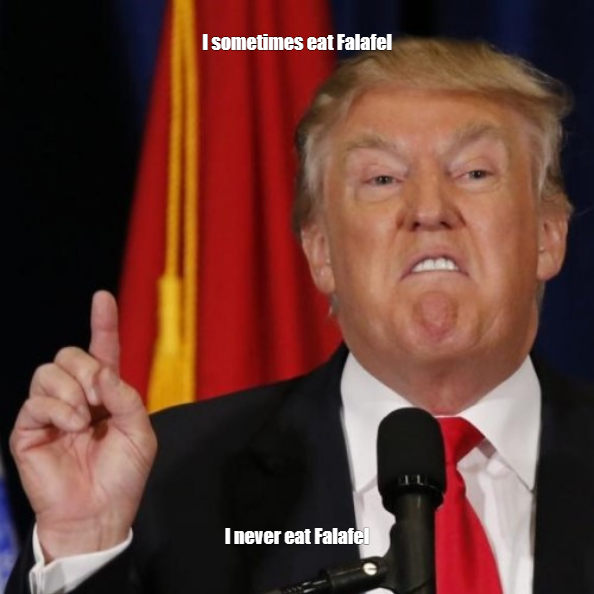
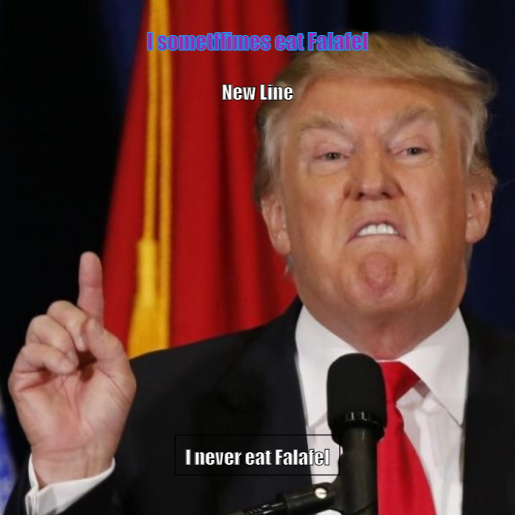
box around selected added

Changed region(s): [[0.2796, 0.0311, 0.7146, 0.1243], [0.3417, 0.8388, 0.6524, 0.932], [0.435, 0.1553, 0.5903, 0.2175]]

diff --git a/js/controllers/memesController.js b/js/controllers/memesController.js
@@ -46,48 +46,72 @@ const memeController = {
         this.renderMem()
     },
 
-
+    consoleLog: function () {
+        console.log('this.currMeme:', this.currMeme)
+    },
 
     renderMem: function () {
         const img = this.loadImg(this.currMeme.selectedImgId)  // Load the image
-
+         this.consoleLog()
         // When the image ready draw it on the canvas
         img.onload = () => {
             const imgWidth = img.naturalWidth
             const imgHeight = img.naturalHeight
-            console.log(`Image size is ${imgWidth}W x ${imgHeight}H`)
+            // console.log(`Image size is ${imgWidth}W x ${imgHeight}H`)
             const imgRatio = imgHeight / imgWidth
             const canvasContainerRatio = canvasService.getCanvasContainerSize().height / canvasService.getCanvasContainerSize().width
             const sideSize = canvasContainerRatio < 1 ? canvasService.getCanvasContainerSize().height : canvasService.getCanvasContainerSize().width
             this.elCanvas.width = sideSize
             this.elCanvas.height = sideSize * imgRatio
     
-            console.log(`Canvas size set to ${this.elCanvas.width}W x ${this.elCanvas.height}H`)
+            // console.log(`Canvas size set to ${this.elCanvas.width}W x ${this.elCanvas.height}H`)
 
             this.ctx.drawImage(img, 0, 0, this.elCanvas.width, this.elCanvas.height)
             this.currMeme.lines.forEach(line => {
-                this.ctx.textAlign = line.align
-                this.ctx.font = `${line.size}px ${line.font}`
-                this.ctx.strokeStyle = line.strokeColor
-                this.ctx.fillStyle = line.fillColor
-                console.log('line length:', this.ctx.measureText(line.txt).width)
-                //first line appears at the top, second bottom, the rest under the first and down
-                line.pos.x = (this.elCanvas.width / 2) - (this.ctx.measureText(line.txt).width / 2)
-                
-                if (line.id === 1) {
-                    line.pos.y = this.linesGap
-                } else if (line.id === 2) {
-                    line.pos.y = this.elCanvas.height - this.linesGap
-                } else {
-                    line.pos.y = this.linesGap + (line.id - 2) * this.linesGap
-                }
-                this.ctx.strokeText(line.txt, line.pos.x, line.pos.y)
-                this.ctx.fillText(line.txt, line.pos.x, line.pos.y)
-
+                this._drawText(line)
             })
         }
 
     },
+
+    _drawText: function (line) {
+        const boxPadding = 10
+        this.ctx.textAlign = line.align
+        this.ctx.font = `${line.size}px ${line.font}`
+        this.ctx.strokeStyle = line.strokeColor
+        this.ctx.fillStyle = line.fillColor
+
+        const txtSize = this.ctx.measureText(line.txt)
+
+        console.log('line length:', txtSize.width)
+        //first line appears at the top, second bottom, the rest under the first and down
+        line.pos.x = (this.elCanvas.width / 2) - (txtSize.width / 2)
+        
+        if (line.id === 1) {
+            line.pos.y = this.linesGap
+        } else if (line.id === 2) {
+            line.pos.y = this.elCanvas.height - this.linesGap
+        } else {
+            line.pos.y = this.linesGap + (line.id - 2) * this.linesGap
+        }
+
+        this.ctx.fillText(line.txt,line.pos.x, line.pos.y)
+        this.ctx.strokeText(line.txt,line.pos.x, line.pos.y)
+
+        if (this.currMeme.selectedLineId === line.id) {
+        // const oldStrokeColor = this.ctx.strokeStyle
+        // this.ctx.strokeStyle = line.strokeColor
+
+           // calculate rectangle position and size
+        const rectX = line.pos.x - boxPadding
+        const rectY = line.pos.y - line.size - boxPadding
+        const rectWidth = txtSize.width + boxPadding * 2
+        const rectHeight = line.size + boxPadding * 2
+        this.ctx.strokeRect(rectX, rectY, rectWidth, rectHeight)
+
+        // this.ctx.strokeStyle = oldStrokeColor
+        } 
+    }
 
 }
 

diff --git a/js/services/memesService.js b/js/services/memesService.js
@@ -14,7 +14,7 @@ const memService = {
     difaultMeme: {
         id: 1,
         selectedImgId: 1,
-        selectedLineIdx: 0,
+        selectedLineId: 1,
         lines: [
             {
                 id: 1,
@@ -64,7 +64,7 @@ const memService = {
     consoleLog: function () { console.log('currMeme:', this.currMeme) },
     setCurrMeme: function (id) {
         this.currMeme = this.memes.find(meme => meme.id === id)
-        this.consoleLog()
+        // this.consoleLog()
     },
 
     setToDefault: function () {
@@ -72,22 +72,24 @@ const memService = {
     },
     
 
-    getSelectedLineidx: function () {
-        return this.currMeme.selectedLineIdx
+    getSelectedLineid: function () {
+        return this.currMeme.selectedLineId
     },
     getSelectedLine: function () {
-        return this.currMeme.lines[this.currMeme.selectedLineIdx]
+        return this.currMeme.lines.find(line => line.id === this.currMeme.selectedLineId)
     },
     switchLine: function (diff) {
         const meme = this.currMeme
-        meme.selectedLineIdx += diff
-        if (meme.selectedLineIdx >= meme.lines.length) meme.selectedLineIdx = 0
-        this.currMeme.selectedLineIdx = meme.selectedLineIdx
+        let selectedLineIdx = meme.lines.indexOf(this.getSelectedLine())
+        selectedLineIdx += diff
+        if (selectedLineIdx >= meme.lines.length) selectedLineIdx = 0
+        this.currMeme.selectedLineId = this.currMeme.lines[selectedLineIdx].id
     },
     addLine: function () {
         const meme = this.currMeme
-        meme.lines.push({
-            id: meme.lines.length + 1,
+        const newLineId = Math.max(...meme.lines.map(d=>d.id)) + 1
+         meme.lines.push({
+            id: newLineId,
             txt: 'New Line',
             font: 'Impact',
             size: 20,
@@ -96,34 +98,32 @@ const memService = {
             fillColor: 'white',
             pos: { x: 35, y: 35 },
         }),
-            meme.selectedLineIdx = meme.lines.length - 1
-        this.consoleLog()
+            meme.selectedLineId = newLineId
+        // this.consoleLog()
     },
 
     deleteLine: function () {
         const meme = this.currMeme
-        meme.lines.splice(meme.selectedLineIdx, 1)
-        meme.selectedLineIdx = 0
+        const selectedLineIdx = meme.lines.indexOf(this.getSelectedLine())
+        meme.lines.splice(selectedLineIdx, 1) 
+
+        meme.selectedLineId = (meme.lines.length === 0)? undefined : meme.lines[0].id
     },
 
     setLineTxt: function (txt) {
-        const meme = this.currMeme
-        meme.lines[meme.selectedLineIdx].txt = txt
+        this.getSelectedLine().txt = txt
     },
 
     setLineFillColor: function (colorValue) {
-        const meme = this.currMeme
-        meme.lines[meme.selectedLineIdx].fillColor = colorValue
+        this.getSelectedLine().fillColor = colorValue
     },
 
     setLineStrokeColor: function (colorValue) {
-        const meme = this.currMeme
-        meme.lines[meme.selectedLineIdx].strokeColor = colorValue
+        this.getSelectedLine().strokeColor = colorValue
     },
-    
+
     setLineFontSize: function (diff) {
-        const meme = this.currMeme
-        meme.lines[meme.selectedLineIdx].size += diff
+        this.getSelectedLine().size += diff
     },
 
     saveMeme: function (dataUrl) {

diff --git a/js/controllers/memesGenController.js b/js/controllers/memesGenController.js
@@ -56,6 +56,7 @@ const editorController = {
 
     onInputFocus: function () {
         this.elLineInput.value = memService.getSelectedLine().txt
+        // memeController.renderMem()
     },
 
 
@@ -63,6 +64,7 @@ const editorController = {
         memService.switchLine(diff)
         document.querySelector('.line-input').value = ''
         this.renderLinePlaceholder()
+        memeController.renderMem()
     },
 
     onAddLine: function () {

diff --git a/css/components/generator.css b/css/components/generator.css
@@ -45,18 +45,19 @@
 }
 
 .save-download-btns {
-    justify-content: end;
+    justify-content: center;
     gap: 1em;
 }
 
 .controls-container button.save-to-local-btn {
     background-color: #ff7f00;
     color: #ffffff;
+    width: 7em;
 }
 
 .controls-container .download-link {
     font-size: inherit;
-    width: 6.5em;
+    width: 7em;
     height: 3em;
     justify-self: end;
     border-radius: 0.6em;
